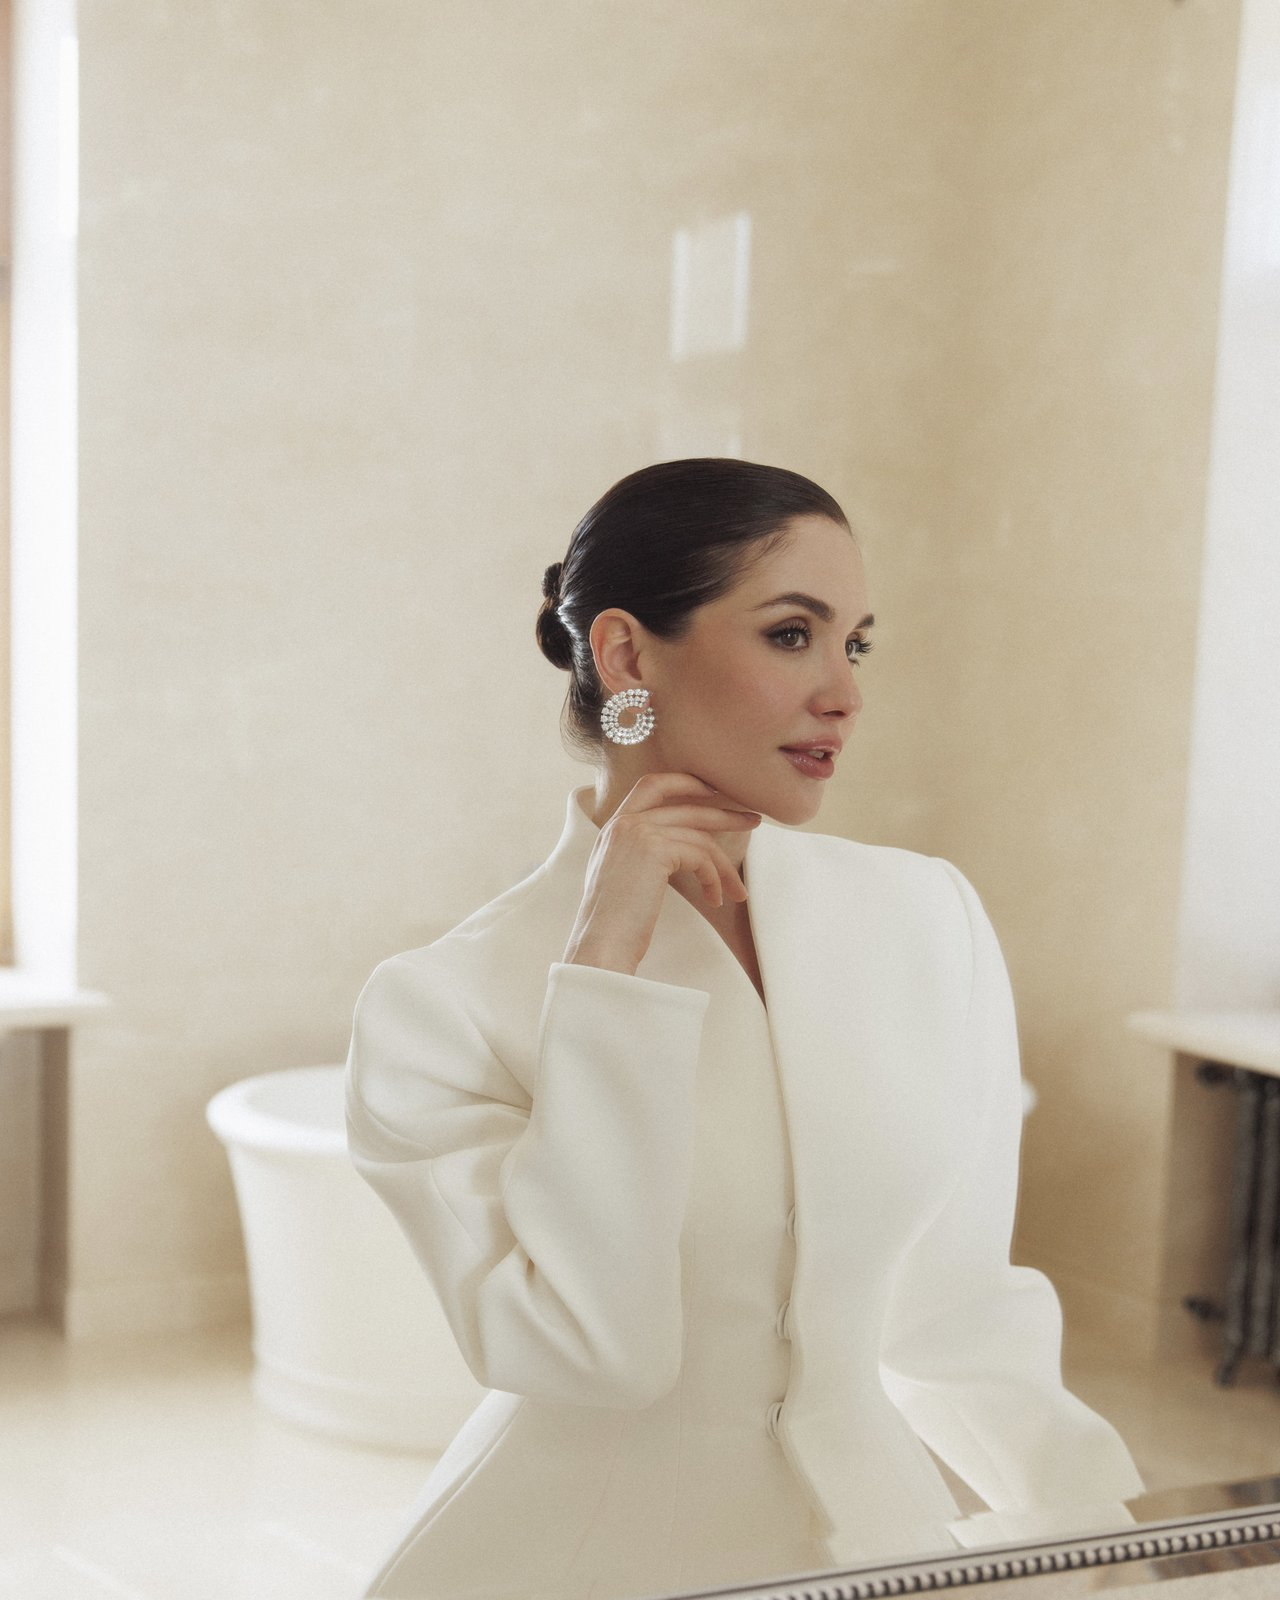
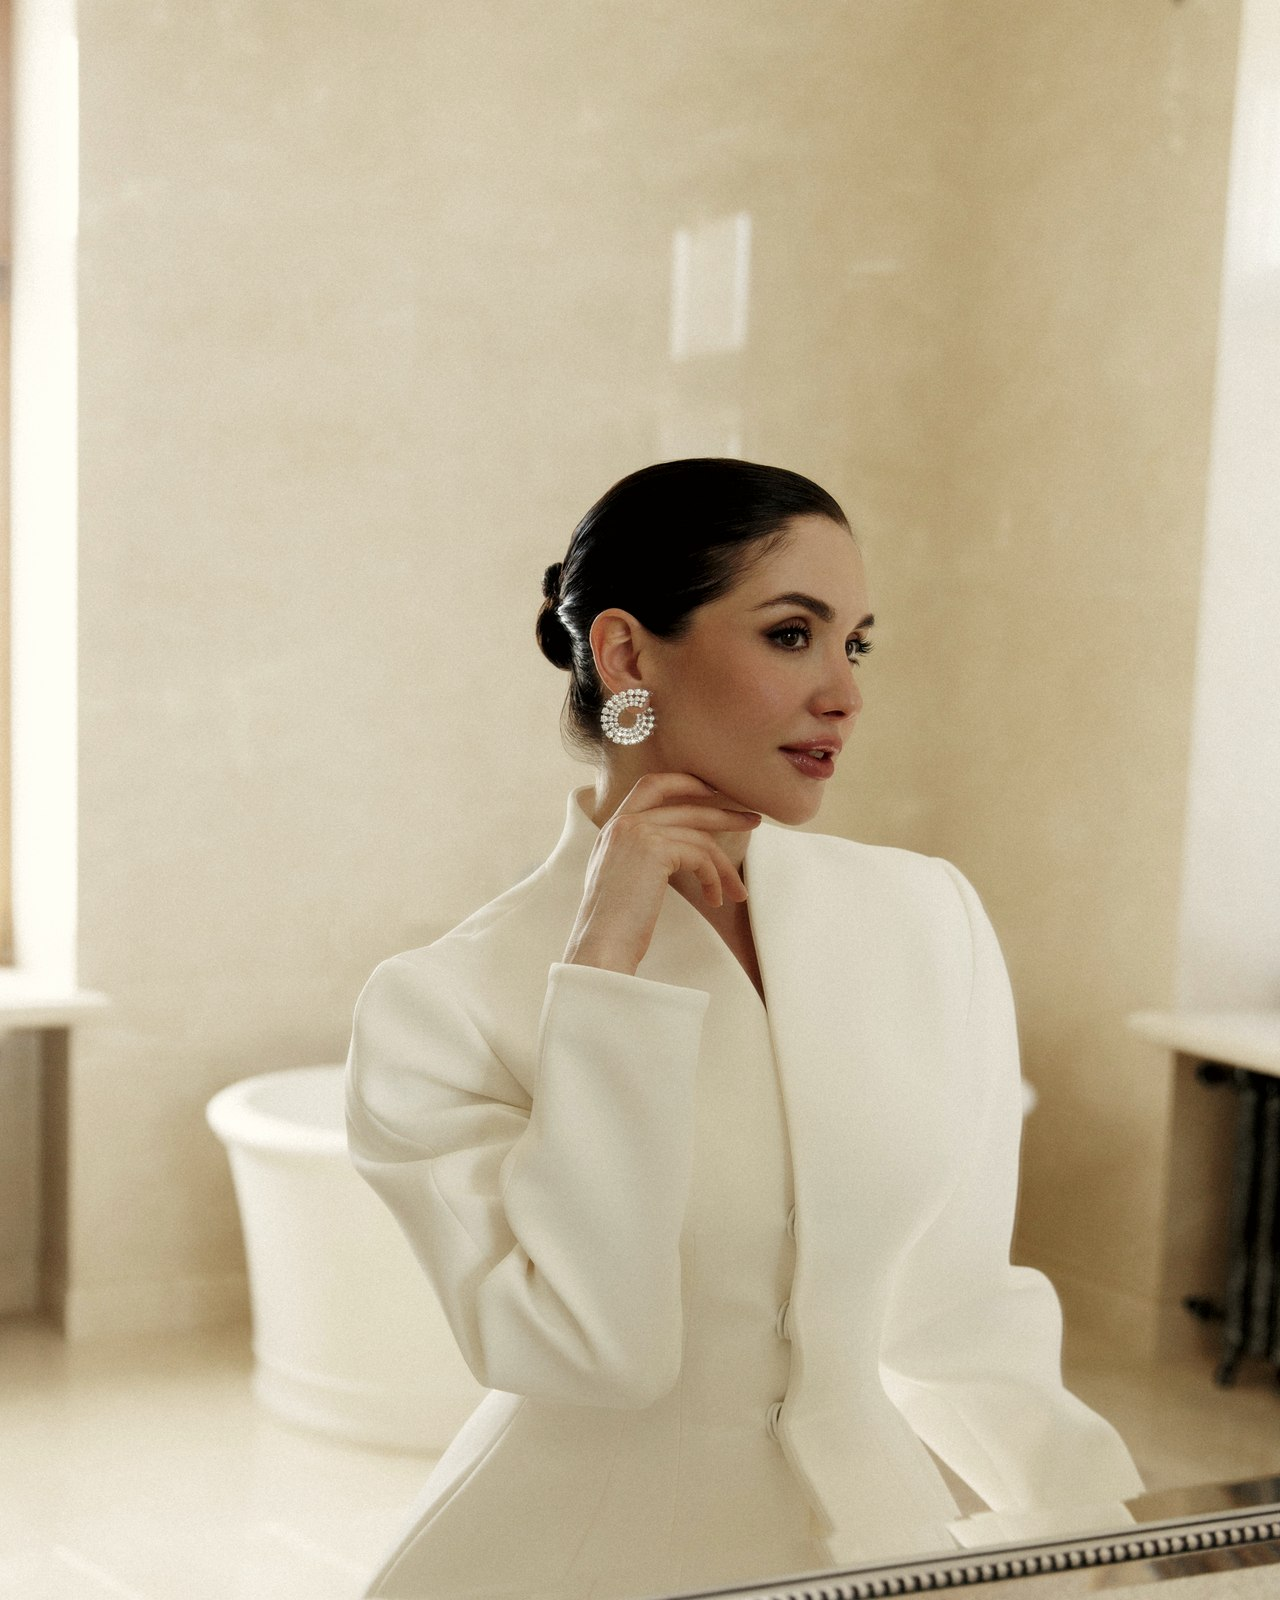
4 фото в единой журнальной обработке + танец в первый блок
— assets/portrait-dance.jpg (ч/б танец в движении) → первый inline
  слот в эссе про детство/танцы.
— Все 4 фото (hero, dance, essay, family) пересохранены через
  единый фильтр: мягкий autocontrast, тёплый split-tone (R+, B-),
  desaturation 0.92–0.95, lift экспозиции на тёмных кадрах.
— CSS: общий .n-hero-photo/.essay-figure/.dream-figure стиль —
  paper-фон, мягкая floating-тень, единый object-fit. Без рамок
  и обводок — фото «лежат на бумаге», а не «вставлены».

diff --git a/narrative.css b/narrative.css
@@ -494,21 +494,11 @@
   margin: 36px auto;
 }
 
-/* Inline-фото в эссе (реальная картинка вместо placeholder) */
+/* Inline-фото в эссе — наследует общий editorial-стиль выше; здесь только размер/позиция */
 .essay-figure {
   margin: 44px auto;
   max-width: 520px;
   aspect-ratio: 4 / 5;
-  overflow: hidden;
-  background: var(--paper);
-  box-shadow: 0 1px 0 rgba(42, 37, 32, 0.06);
-}
-.essay-figure img {
-  display: block;
-  width: 100%;
-  height: 100%;
-  object-fit: cover;
-  object-position: center;
 }
 @media (max-width: 560px) {
   .essay-figure { margin: 32px auto; max-width: 100%; }
@@ -749,17 +739,7 @@
   aspect-ratio: 4 / 5;
 }
 .dream-figure {
-  margin: 0;
   aspect-ratio: 4 / 5;
-  overflow: hidden;
-  background: var(--paper);
-}
-.dream-figure img {
-  display: block;
-  width: 100%;
-  height: 100%;
-  object-fit: cover;
-  object-position: center;
 }
 .dream-text h2 {
   font-family: var(--serif);
@@ -849,21 +829,35 @@
   justify-content: center;
   padding: 12px 0;
 }
-.n-hero-photo {
+/* ─── Единая журнальная подача для всех editorial-фото ─── */
+.n-hero-photo,
+.essay-figure,
+.dream-figure {
   margin: 0;
-  align-self: stretch;
-  /* фото занимает всю высоту колонки — без aspect-ratio который вылазит */
-  width: 100%;
-  /* безопасная верхняя граница чтобы фото не было гигантским */
-  max-height: calc(100svh - 180px);
   overflow: hidden;
   background: var(--paper, #F4EFE3);
+  box-shadow:
+    0 1px 0 rgba(42, 37, 32, 0.05),
+    0 30px 60px -40px rgba(42, 37, 32, 0.22);
+  /* Лёгкая тёплая тонировка, единая для всех — приводит цвет к общей палитре сайта */
+  filter: saturate(0.97);
 }
-.n-hero-photo img {
+.n-hero-photo img,
+.essay-figure img,
+.dream-figure img {
   display: block;
   width: 100%;
   height: 100%;
   object-fit: cover;
+  object-position: center;
+}
+
+.n-hero-photo {
+  align-self: stretch;
+  width: 100%;
+  max-height: calc(100svh - 180px);
+}
+.n-hero-photo img {
   object-position: center top;
 }
 .n-hero-photo .photo-slot-inner { padding: 32px; }

diff --git a/index.html b/index.html
@@ -95,13 +95,10 @@
 
         <p>В&nbsp;детстве я&nbsp;профессионально занималась спортивными бальными танцами. Именно спорт познакомил меня с&nbsp;дисциплиной, ответственностью, силой характера и&nbsp;стремлением к&nbsp;результату.</p>
 
-        <!-- Фото-вставка: детство / танцы / Байкал -->
-        <div class="photo-slot photo-slot--inline reveal">
-          <div class="photo-slot-inner">
-            <div class="photo-slot-label">Фото · детство или ранние годы</div>
-            <div class="photo-slot-hint">бальные танцы, семья, Байкал · вертикальный кадр 4:5 предпочтительно</div>
-          </div>
-        </div>
+        <!-- Фото: бальные танцы — движение, ч/б -->
+        <figure class="essay-figure reveal">
+          <img src="/assets/portrait-dance.jpg" alt="Марина в танце — бальные танцы детства" loading="lazy" decoding="async" />
+        </figure>
 
         <p>Позже я&nbsp;получила три высших образования. Окончила РЭУ им.&nbsp;Г.&nbsp;В.&nbsp;Плеханова по&nbsp;направлению «Мировая экономика», получила образование в&nbsp;Лондонской школе бизнеса и&nbsp;финансов, а&nbsp;затем психологическое образование в&nbsp;МГУ.</p>
 